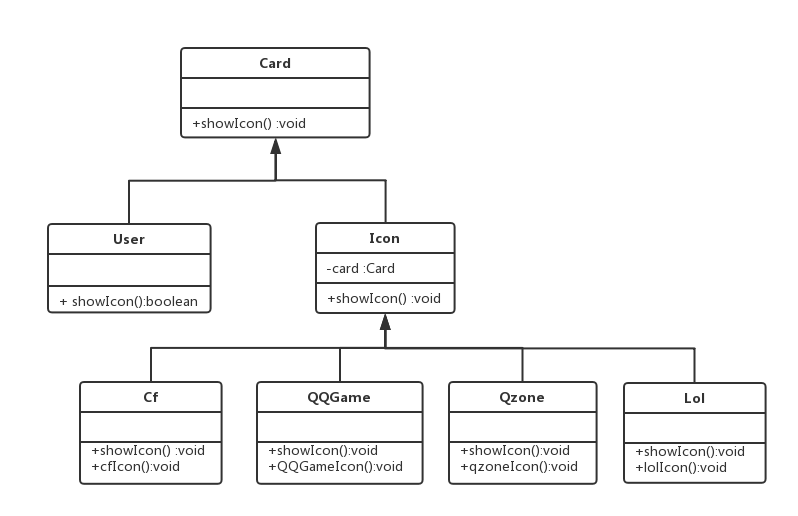
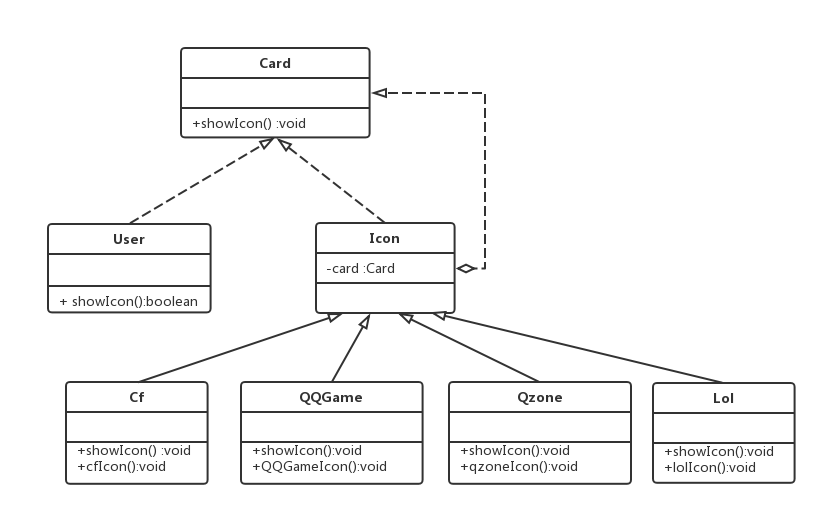
修改类图

diff --git a/src/com/zjl/decorator/MyTest.java b/src/com/zjl/decorator/MyTest.java
@@ -14,7 +14,7 @@ public class MyTest {
     @Test
     public void test() {
     	//lilei点亮的qq图标
-        IIcon liLei = new Card("lilei");
+    	Card liLei = new User("lilei");
         liLei = new Lol(liLei);
         liLei = new Qzone(liLei);
         liLei.showIcon();
@@ -22,7 +22,7 @@ public class MyTest {
         System.out.println("");
         
         //hanmei点亮的qq图标
-        IIcon hanMei = new Card("hanmei");
+        Card hanMei = new User("hanmei");
         hanMei = new QQGame(hanMei);
         hanMei = new Qzone(hanMei);
         hanMei = new Lol(hanMei);

diff --git a/src/com/zjl/decorator/Card.java b/src/com/zjl/decorator/Card.java
@@ -2,20 +2,14 @@ package com.zjl.decorator;
 
 /**
  * 
- * 描述:用户资料卡
+ * 描述:资料卡接口
  * @author  zhoujialin
- * @created 2018年9月30日 上午10:23:41
+ * @created 2018年9月30日 上午10:24:59
  * @since   v1.0.0
  */
-public class Card implements IIcon {
-
-	public Card(String nickName) {
-		System.out.println(nickName + "点亮了以下图标：");
-	}
-
-	@Override
-	public void showIcon() {
-		// Do nothing.
-	}
-
+public interface Card {
+	/**
+	 * 展示资料卡
+	 */
+	void showIcon();
 }

diff --git a/src/com/zjl/decorator/Icon.java b/src/com/zjl/decorator/Icon.java
@@ -7,11 +7,11 @@ package com.zjl.decorator;
  * @created 2018年9月30日 上午10:22:42
  * @since   v1.0.0
  */
-public abstract class Icon implements IIcon {
+public abstract class Icon implements Card {
 	
-    protected IIcon icon;
+    protected Card card;
     
-    public Icon(IIcon icon) {
-        this.icon = icon;
+    public Icon(Card card) {
+        this.card = card;
     }
 }

diff --git a/src/com/zjl/decorator/User.java b/src/com/zjl/decorator/User.java
@@ -1,0 +1,21 @@
+package com.zjl.decorator;
+
+/**
+ * 
+ * 描述:用户
+ * @author  zhoujialin
+ * @created 2018年9月30日 上午10:23:41
+ * @since   v1.0.0
+ */
+public class User implements Card {
+
+	public User(String nickName) {
+		System.out.println(nickName + "点亮了以下图标：");
+	}
+
+	@Override
+	public void showIcon() {
+		// Do nothing.
+	}
+
+}

diff --git a/src/com/zjl/decorator/QQGame.java b/src/com/zjl/decorator/QQGame.java
@@ -9,13 +9,13 @@ package com.zjl.decorator;
  */
 public class QQGame extends Icon {
    
-    public QQGame(IIcon icon) {
-    	super(icon);
+    public QQGame(Card card) {
+    	super(card);
     }
 
 	@Override
 	public void showIcon() {
-		icon.showIcon();
+		card.showIcon();
 		QQGameIcon();
 	}
 

diff --git a/src/com/zjl/decorator/Qzone.java b/src/com/zjl/decorator/Qzone.java
@@ -9,13 +9,13 @@ package com.zjl.decorator;
  */
 public class Qzone extends Icon {
    
-    public Qzone(IIcon icon) {
-    	super(icon);
+    public Qzone(Card card) {
+    	super(card);
     }
 
 	@Override
 	public void showIcon() {
-		icon.showIcon();
+		card.showIcon();
 		qzoneIcon();
 	}
 

diff --git a/src/com/zjl/decorator/Lol.java b/src/com/zjl/decorator/Lol.java
@@ -9,13 +9,13 @@ package com.zjl.decorator;
  */
 public class Lol extends Icon {
    
-    public Lol(IIcon icon) {
-    	super(icon);
+    public Lol(Card card) {
+    	super(card);
     }
 
 	@Override
 	public void showIcon() {
-		icon.showIcon();
+		card.showIcon();
 		lolIcon();
 	}
 

diff --git a/src/com/zjl/decorator/Cf.java b/src/com/zjl/decorator/Cf.java
@@ -9,13 +9,13 @@ package com.zjl.decorator;
  */
 public class Cf extends Icon {
    
-    public Cf(IIcon icon) {
-    	super(icon);
+    public Cf(Card card) {
+    	super(card);
     }
 
 	@Override
 	public void showIcon() {
-		icon.showIcon();
+		card.showIcon();
 		cfIcon();
 	}
 
